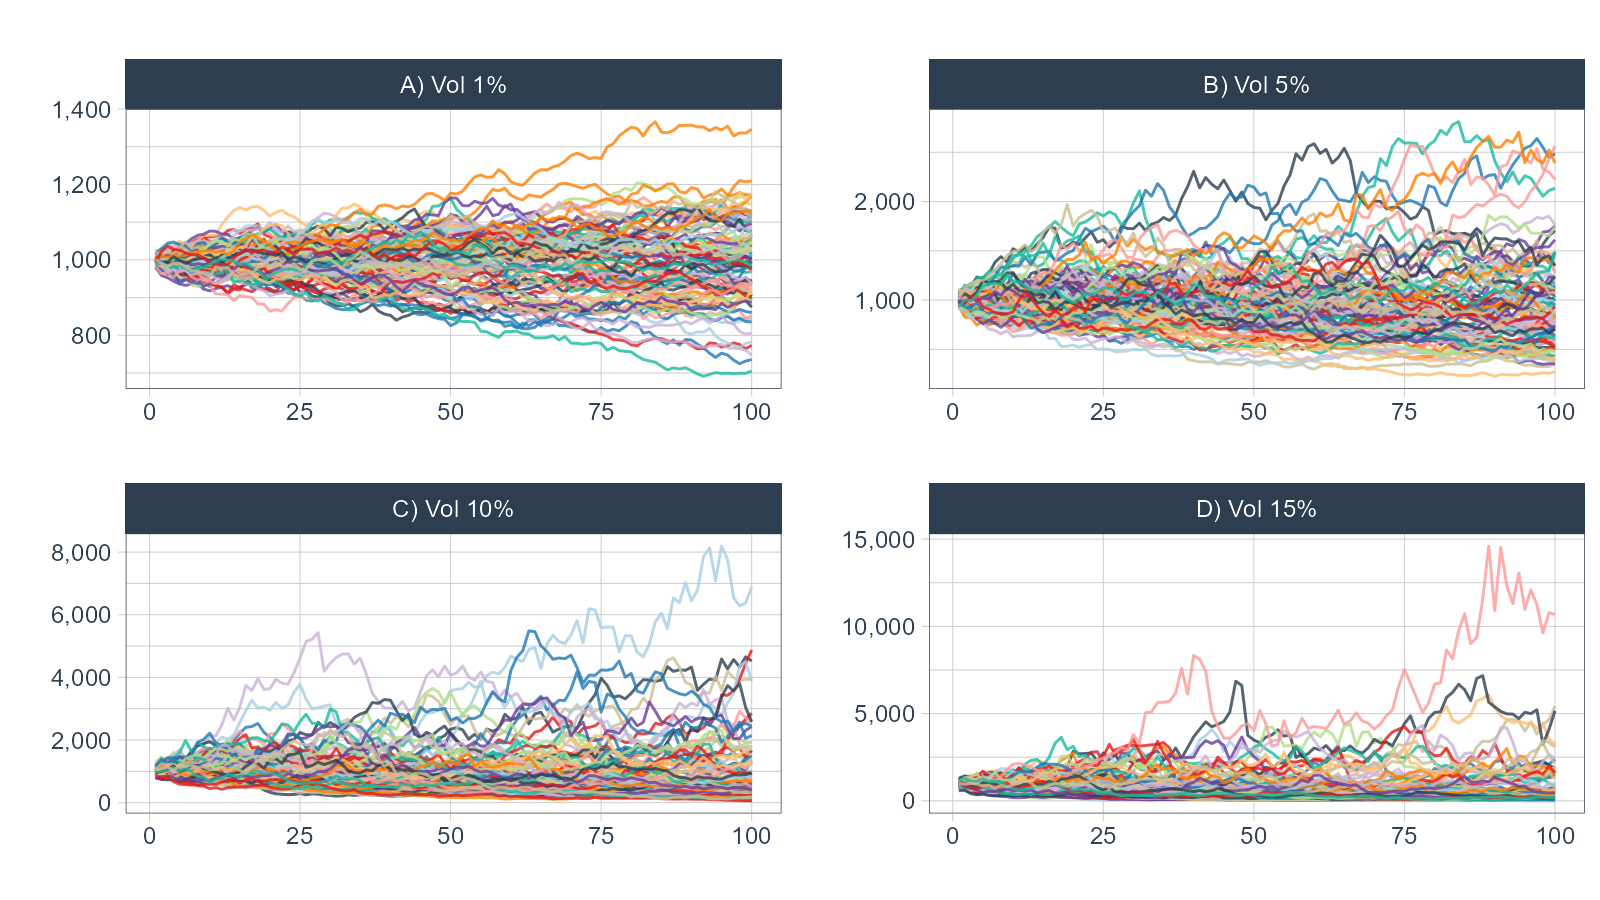
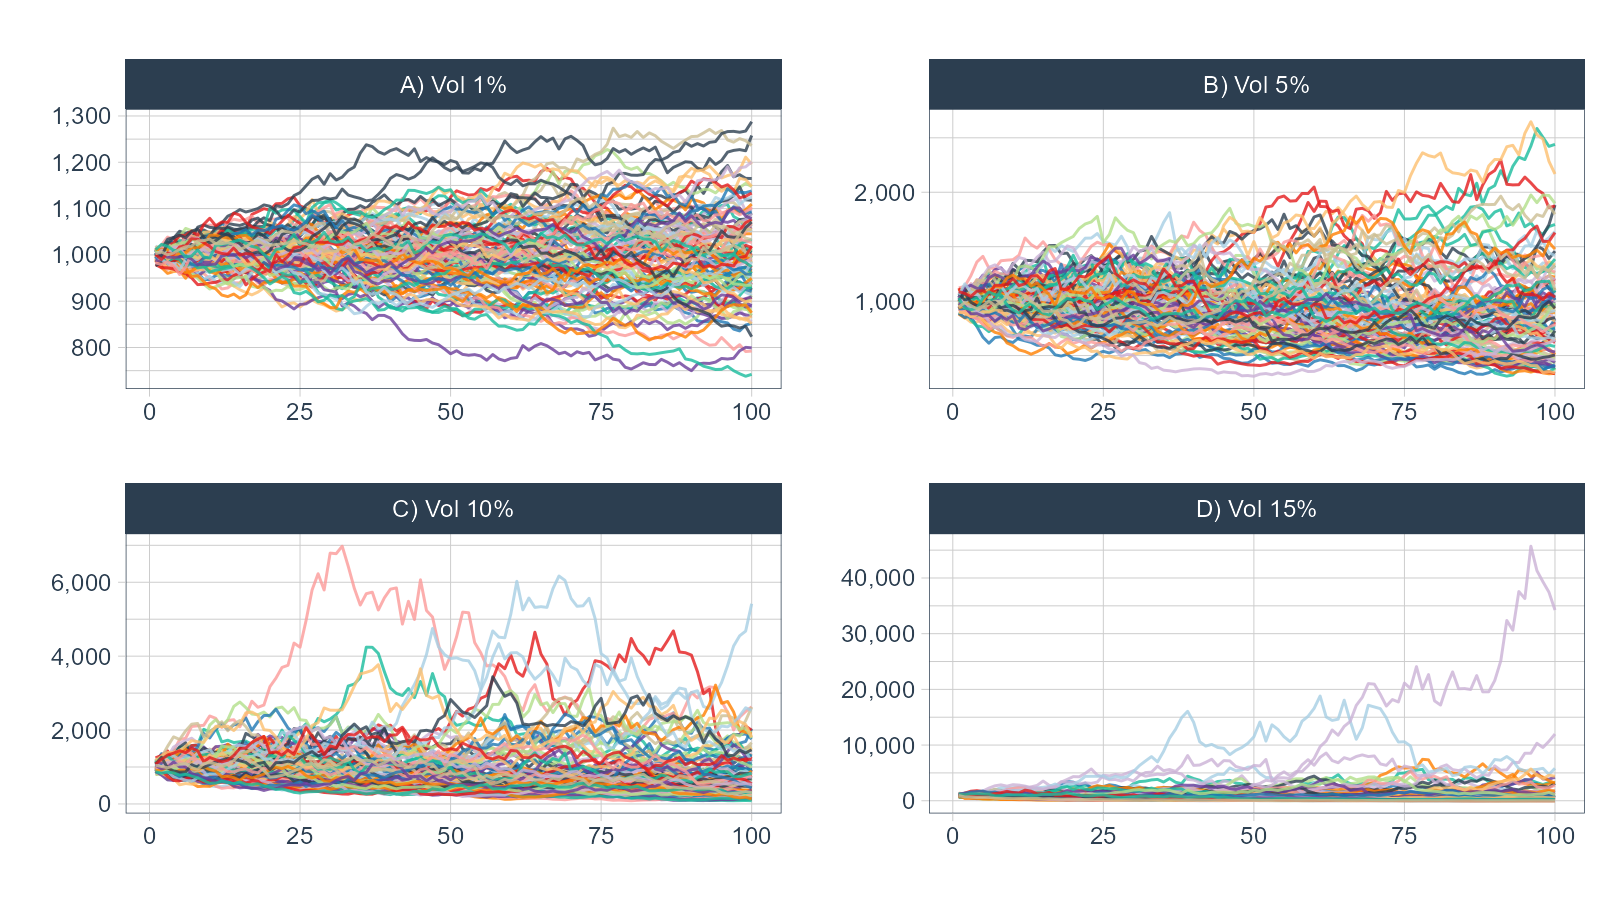
fix NEWS

diff --git a/docs/articles/getting-started.html b/docs/articles/getting-started.html
@@ -112,21 +112,21 @@
 <code class="sourceCode R"><span class="va">df</span> <span class="op">&lt;-</span> <span class="fu"><a href="../reference/ts_random_walk.html">ts_random_walk</a></span><span class="op">(</span><span class="op">)</span>
 <span class="fu"><a href="https://rdrr.io/r/utils/head.html">head</a></span><span class="op">(</span><span class="va">df</span><span class="op">)</span>
 <span class="co">#&gt; # A tibble: 6 x 4</span>
-<span class="co">#&gt;     run     x      y cum_y</span>
-<span class="co">#&gt;   &lt;dbl&gt; &lt;dbl&gt;  &lt;dbl&gt; &lt;dbl&gt;</span>
-<span class="co">#&gt; 1     1     1 0.0344 1034.</span>
-<span class="co">#&gt; 2     1     2 0.0473 1083.</span>
-<span class="co">#&gt; 3     1     3 0.0724 1162.</span>
-<span class="co">#&gt; 4     1     4 0.0375 1205.</span>
-<span class="co">#&gt; 5     1     5 0.0826 1305.</span>
-<span class="co">#&gt; 6     1     6 0.0152 1325.</span>
+<span class="co">#&gt;     run     x        y cum_y</span>
+<span class="co">#&gt;   &lt;dbl&gt; &lt;dbl&gt;    &lt;dbl&gt; &lt;dbl&gt;</span>
+<span class="co">#&gt; 1     1     1 -0.00924  991.</span>
+<span class="co">#&gt; 2     1     2 -0.105    887.</span>
+<span class="co">#&gt; 3     1     3 -0.240    674.</span>
+<span class="co">#&gt; 4     1     4  0.149    774.</span>
+<span class="co">#&gt; 5     1     5 -0.0119   765.</span>
+<span class="co">#&gt; 6     1     6 -0.0315   741.</span>
 <span class="fu"><a href="https://pillar.r-lib.org/reference/glimpse.html">glimpse</a></span><span class="op">(</span><span class="va">df</span><span class="op">)</span>
 <span class="co">#&gt; Rows: 10,000</span>
 <span class="co">#&gt; Columns: 4</span>
 <span class="co">#&gt; $ run   &lt;dbl&gt; 1, 1, 1, 1, 1, 1, 1, 1, 1, 1, 1, 1, 1, 1, 1, 1, 1, 1, 1, 1, 1, 1~</span>
 <span class="co">#&gt; $ x     &lt;dbl&gt; 1, 2, 3, 4, 5, 6, 7, 8, 9, 10, 11, 12, 13, 14, 15, 16, 17, 18, 1~</span>
-<span class="co">#&gt; $ y     &lt;dbl&gt; 0.034402716, 0.047292369, 0.072432705, 0.037457308, 0.082644776,~</span>
-<span class="co">#&gt; $ cum_y &lt;dbl&gt; 1034.4027, 1083.3221, 1161.7900, 1205.3075, 1304.9199, 1324.7088~</span></code></pre></div>
+<span class="co">#&gt; $ y     &lt;dbl&gt; -0.009239019, -0.104996957, -0.239930060, 0.149120211, -0.011862~</span>
+<span class="co">#&gt; $ cum_y &lt;dbl&gt; 990.7610, 886.7341, 673.9799, 774.4840, 765.2969, 741.2131, 727.~</span></code></pre></div>
 <p>Now that the data has been generated, lets take a look at it.</p>
 <div class="sourceCode" id="cb3"><pre class="downlit sourceCode r">
 <code class="sourceCode R"><span class="va">df</span> <span class="op">%&gt;%</span>

diff --git a/docs/news/index.html b/docs/news/index.html
@@ -146,9 +146,6 @@
 <h1 class="page-header" data-toc-text="0.1.1.9000">
 <a href="#healthyrts-0119000" class="anchor"></a>healthyR.ts 0.1.1.9000<small> Unreleased </small>
 </h1>
-<ul>
-<li>New Dev Version</li>
-</ul>
 <div id="breaking-changes" class="section level2">
 <h2 class="hasAnchor">
 <a href="#breaking-changes" class="anchor"></a>Breaking Changes</h2>

diff --git a/NEWS.md b/NEWS.md
@@ -1,7 +1,6 @@
 # healthyR.ts (development version)
 
 # healthyR.ts 0.1.1.9000
-* New Dev Version
 
 ## Breaking Changes
 None
